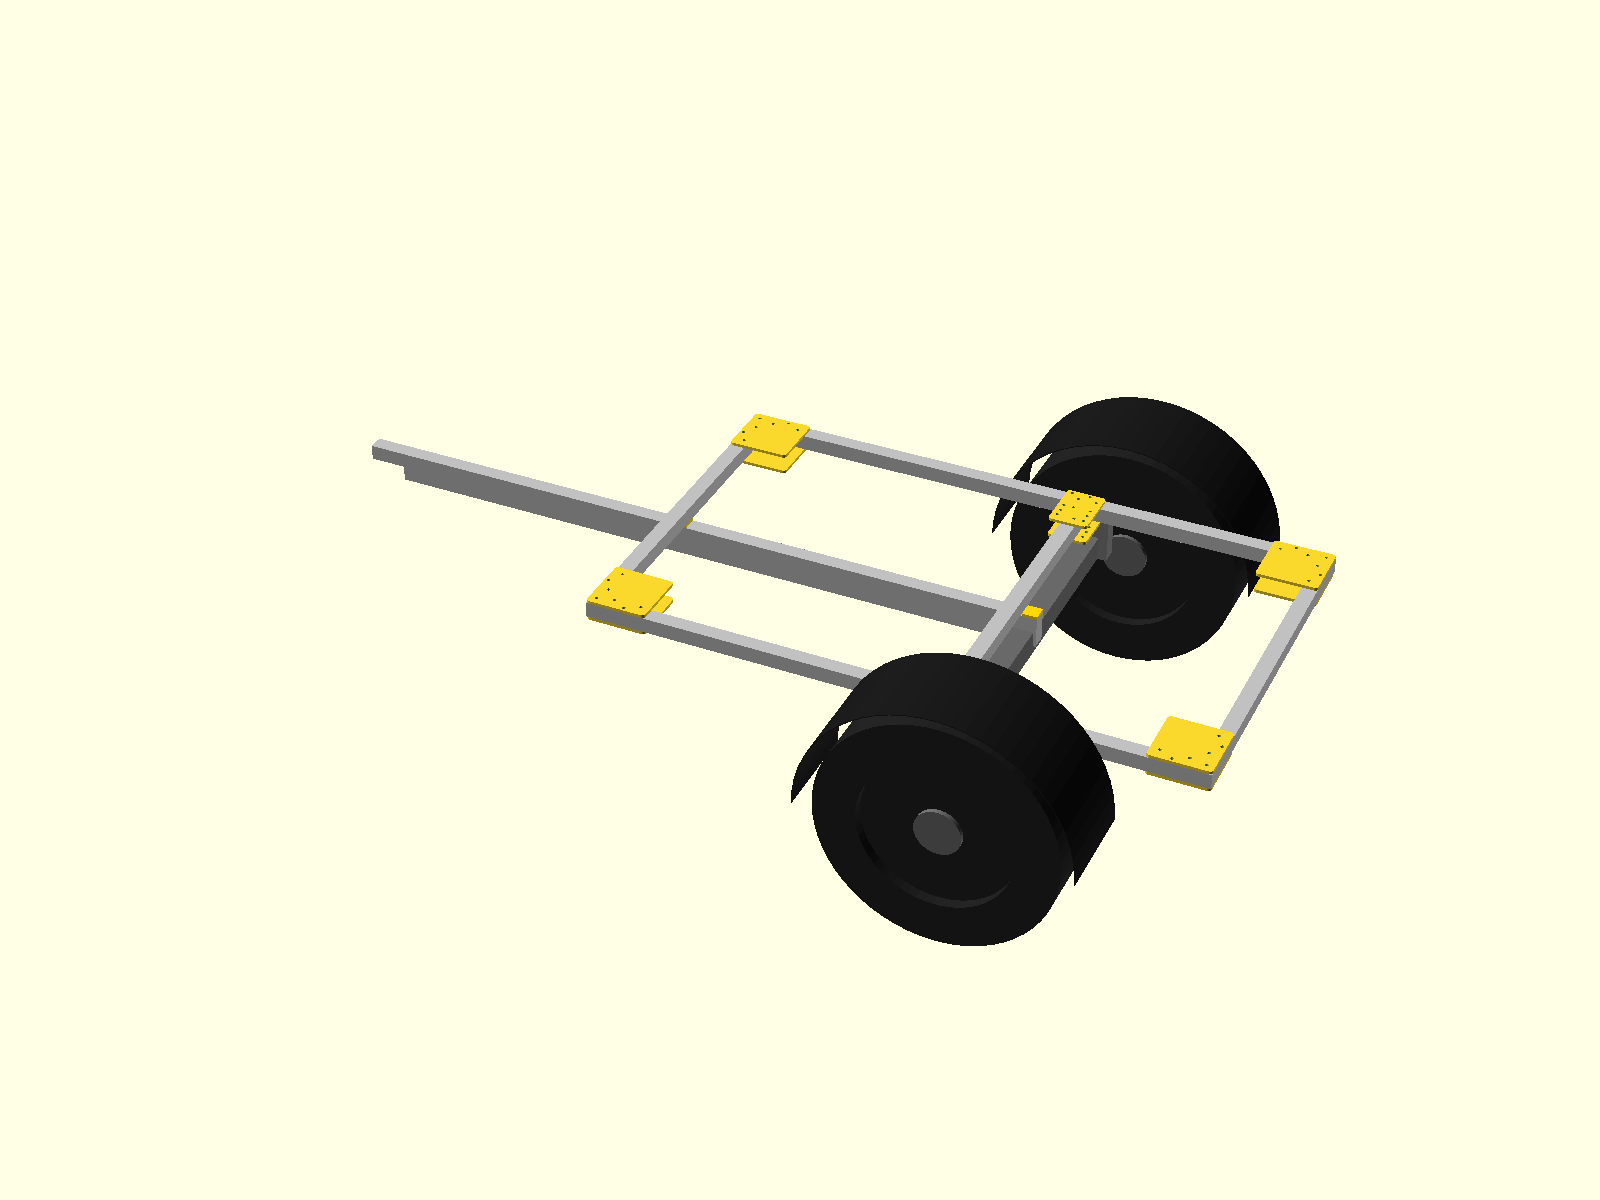
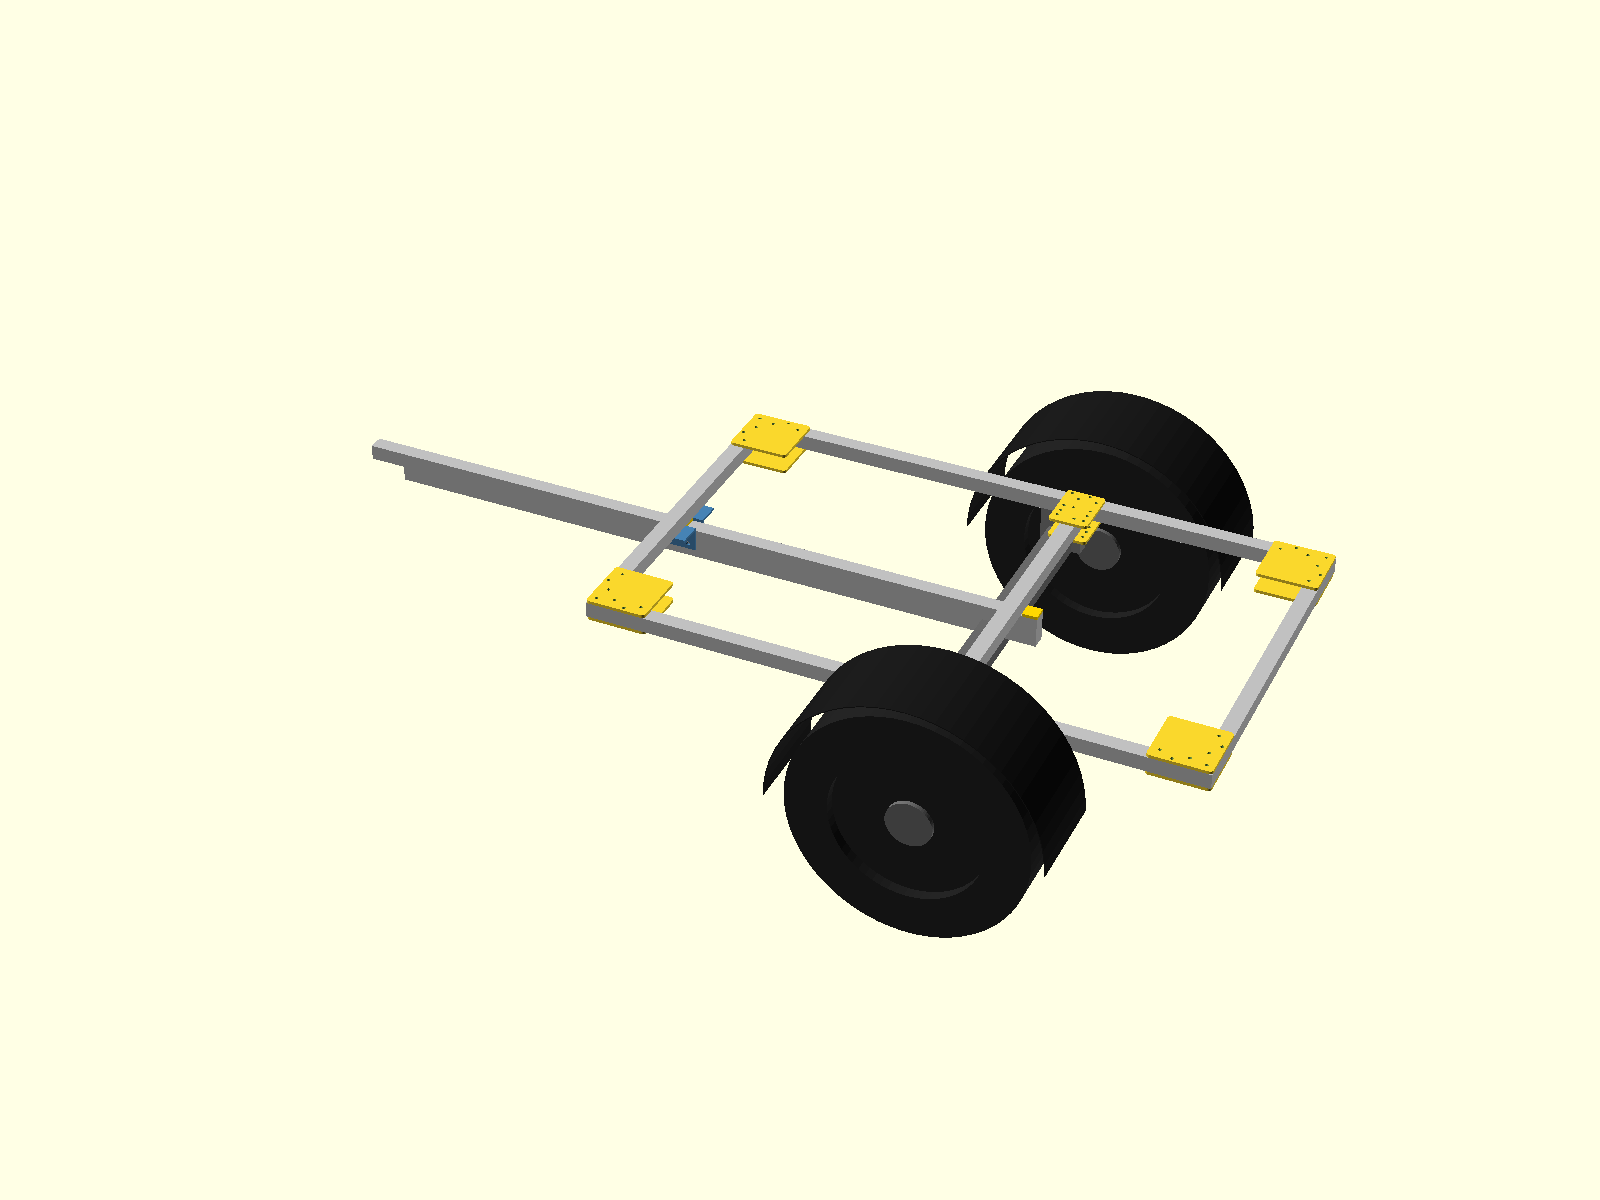
Angle joint in main assembly; fix axle/wheel alignment + tank collisions
- main_assembly: drawbar_angle_joint() module at the front crossbeam
  (DECIDED - no holes in the beam flanges there); axle crossbeam keeps
  M12 through-bolt + spacer (moment ~zero, positive location). Spare
  wheel mocked on the tailgate left half.
- Axle fix: torsion_axle() places the TUBE; hubs sit trail=90 mm back.
  Assembly now passes axle_x - trail so the WHEELS land on the axle
  crossbeam and on AXLE_X in the mass budget (they were 90 mm off).
- Water tank: was impaled by the central drawbar and overlapped the
  axle tube - moved ahead of the tube and offset left of the beam
  (20 mm gap); the offset counterbalances the right-side galley mass.
- Mass budget: angle brackets line, corrected tank position; tongue
  59.6 kg (9.5%) against the true wheel position.
- beam_check: VKR 100x50x5/x6 profiles for the wall-thickness option;
  SPECS/TODO/concepts updated; chassis + assembly renders regenerated.

diff --git a/scripts/calculate_mass.py b/scripts/calculate_mass.py
@@ -37,6 +37,7 @@ COMPONENTS = [
     ("Corner plates 8x 200x200x10 (1.08 kg ea)",        8.6, 1000),
     ("T-plates axle beam 4x (~1.5 kg ea)",              6.0, AXLE_X),
     ("Drawbar wedge/spacer plates",                     3.0,  100),
+    ("Drawbar angle brackets 2x L80x80x8 x 120 mm",     2.3,   25),
 
     # --- Running gear ---
     ("Torsion axle, braked, 6x139.7 + dampers",        75.0, AXLE_X),
@@ -52,9 +53,10 @@ COMPONENTS = [
     ("Rear door, hinges, locks, seals",                 8.0, 1950),
     ("Roof racks + roof tent",                         70.0, 1000),
 
-    # --- Water (tank full) ---
-    ("Water tank 40 L FULL + tank",                    45.0, 1100),
-    ("Skid plate 3 mm alu tread (~0.8 m2)",             6.5, 1100),
+    # --- Water (tank full; offset left of the drawbar, ahead of the
+    #     axle tube — see main_assembly.scad) ---
+    ("Water tank 40 L FULL + tank",                    45.0,  780),
+    ("Skid plate 3 mm alu tread (~0.8 m2)",             6.5,  780),
     ("Pump, hoses, filler, drain valve",                4.0, 1200),
 
     # --- Electrical (right side, bay ahead of the fridge drawer) ---

diff --git a/scripts/beam_check.py b/scripts/beam_check.py
@@ -82,7 +82,9 @@ PROFILES = {
     "VKR 50x50x3":   RHS("VKR 50x50x3", 50, 50, 3),
     "VKR 60x40x3":   RHS("VKR 60x40x3", 40, 60, 3),
     "VKR 100x50x4":  RHS("VKR 100x50x4", 50, 100, 4),   # drawbar, standing on edge
-    "VKR 120x60x4":  RHS("VKR 120x60x4", 60, 120, 4),   # upsizing option
+    "VKR 100x50x5":  RHS("VKR 100x50x5", 50, 100, 5),   # thicker wall, same outer
+    "VKR 100x50x6":  RHS("VKR 100x50x6", 50, 100, 6),   # thicker still
+    "VKR 120x60x4":  RHS("VKR 120x60x4", 60, 120, 4),   # deeper profile option
 }
 
 

diff --git a/SPECS.md b/SPECS.md
@@ -8,9 +8,9 @@
 ## 1. Chassis & Mechanics
 - **Frame Structure:** Square steel (VKR 50x50x3 or 60x40x3 mm), frame 2000 x **1200 mm**. The frame was narrowed from 1400 mm because matching the Ranger's 1560 mm track is otherwise geometrically impossible: with 265 mm tires, tire-to-body clearance is (1560-265)/2 - 600 = **47.5 mm** at 1200 mm width, but negative at 1400 mm. No full welding to prevent fatigue cracks; the frame is bolted together with through-bolts (M10/M12 in 8.8/10.9 grade).
 - **Bolted Joints (critical):** Every through-bolt runs through an **internal steel crush sleeve** (precision tube, e.g., 16x2.5 mm for M10) so the bolt can be torqued to full preload without collapsing the 3 mm RHS walls. Lock nuts and hardened washers throughout. **Re-torque all structural bolts after the first ~500 km, then annually.**
-- **Drawbar:** Single central beam in **VKR 100x50x4 (standing on edge)**, chosen for clean looks over a V/A-frame — and sized for it: 100 kg tongue x 3g off-road dynamic factor x 1.09 m lever = 3.2 kNm; W = 28.8 cm3 gives ~111 MPa vs. S355 yield = safety factor ~3.2. (A 50x50x3 beam would see ~390 MPa — above yield — which is why the profile is upsized.) Lateral loads are handled by lapping the beam under the frame all the way back to the **axle crossbeam**, so side moments resolve as a force couple over a 1.2 m base; through-bolted with M12 + crush sleeves at both crossbeams, with 10 mm milled spacer plates in the gaps. All of this math is executable in `scripts/beam_check.py` (re-run after any geometry/mass change; CalculiX FEA setup in `fea/`, full pipeline via `scripts/run_fea.sh`). Note from the calculator: a *simultaneous* worst-case combination (2g vertical + 0.3g lateral, linearly superposed) gives SF ≈ 1.8 — acceptable given the stacked conservatisms, but VKR 120x60x4 (+2 kg) restores SF ≈ 2.7 if more margin is wanted.
+- **Drawbar:** Single central beam in **VKR 100x50x4 (standing on edge)**, chosen for clean looks over a V/A-frame — and sized for it: 100 kg tongue x 3g off-road dynamic factor x 1.09 m lever = 3.2 kNm; W = 28.8 cm3 gives ~111 MPa vs. S355 yield = safety factor ~3.2. (A 50x50x3 beam would see ~390 MPa — above yield — which is why the profile is upsized.) Lateral loads are handled by lapping the beam under the frame all the way back to the **axle crossbeam**, so side moments resolve as a force couple over a 1.2 m base. Attachment (DECIDED): at the **front crossbeam** the beam is CLAMPED by the angle-bracket pair (no holes in the flanges — see the joint bullet below); at the **axle crossbeam** it is through-bolted with M12 + crush sleeve through a 10 mm spacer plate (moment ~zero there; gives positive longitudinal location). All of this math is executable in `scripts/beam_check.py` (re-run after any geometry/mass change; CalculiX FEA setup in `fea/`, full pipeline via `scripts/run_fea.sh`). Note from the calculator: a *simultaneous* worst-case combination (2g vertical + 0.3g lateral, linearly superposed) gives SF ≈ 1.8 — acceptable given the stacked conservatisms, but VKR 120x60x4 (+2 kg) restores SF ≈ 2.7 if more margin is wanted.
 - **Drawbar joint (the actual weak point):** The governing detail is not the beam but the **13 mm bolt hole through the tension flange at the front crossbeam** — net section −17%, kt ≈ 2.5, right at peak moment; fatigue margin only ~1.3× vs ~3-4× everywhere else (`check_joint_hole` in `beam_check.py`). Fix, keeping the 100x50x4 profile: clamp the beam at the front crossbeam instead of piercing its flanges — vertical bolts pass *beside* the beam, horizontal M12 bolts go through the beam webs at the **neutral axis** where bending stress is ~zero, and nothing references the beam's end cuts (maximally tolerance-forgiving). Three interchangeable implementations, same structural concept:
-  1. **Angle-bracket pair (budget, favored):** 2x hot-rolled **L80x80x8** S355, 120 mm long, straight cuts only, galvanized with the frame (`cad/drawbar_angle_joint.scad`). Leg-bending SF ≈ 3.4 with the pair coupled by the through-bolts (`check_angle_joint` in `beam_check.py`); 6 mm legs drop to SF 1.9 — use 8 mm. The 10 mm spacer plate stays.
+  1. **Angle-bracket pair (DECIDED — in the main assembly):** 2x hot-rolled **L80x80x8** S355, 120 mm long, straight cuts only, galvanized with the frame (`cad/drawbar_angle_joint.scad`). Leg-bending SF ≈ 3.4 with the pair coupled by the through-bolts (`check_angle_joint` in `beam_check.py`); 6 mm legs drop to SF 1.9 — use 8 mm. The 10 mm spacer plate stays.
   2. **CNC-milled 6082-T6 cradle** (`cad/drawbar_cradle.scad`): one-piece channel + wings, integrated spacer web — the premium/CNC variant.
   3. **Square U-bolts** (fyrkantbygel M12 for 50 mm profile) + top plate: fully off-the-shelf trailer hardware; add a saddle strip so the U-bend doesn't dent the tube corners. The V-drawbar alternative is preserved in `cad/drawbar_wedge_plate.scad` + git history. The coupling itself must be a type-approved unit with a documented rating.
 - **Corner Reinforcements:** "Double sandwich" with heavy-duty, CNC-milled 8-10 mm aluminum plates (6082-T6) on the top and bottom of each 90-degree corner.

diff --git a/concepts/gas_water_routing.md b/concepts/gas_water_routing.md
@@ -7,7 +7,7 @@
 - **No Gas to the Drawers:** Propane terminates at the fixed external quick-connects — nothing flexible, and nothing routed alongside electrical cables. The rear fridge drawer holds a 12V compressor unit (works off-level, no flame, no flue — an absorption fridge would need to be level and vented per EN 1949, which is incompatible with a slide-out), and the stove connects outdoors to the front-right quick-connect. The energy chains to both drawers carry **electrical only**, which keeps the left/right gas-electric separation intact all the way.
 
 ## Water System (Centered)
-- **Center of Gravity:** The 40L tank weighs nearly 45 kg full. Placed exactly between the wheels (in front of/over the torsion axle) so as not to drastically affect the tongue weight during consumption.
+- **Center of Gravity:** The 40L tank weighs nearly 45 kg full. Placed just ahead of the torsion-axle tube so consumption doesn't drastically swing the tongue weight, and **offset LEFT of the central drawbar** — the beam runs under the frame centerline (y 575-625), so a centered tank is geometrically impossible. The left offset usefully counterbalances the right-side galley mass (battery box + fridge).
 - **Protection:** Suspended in a steel frame/straps under the trailer. Protected from below with a heavy-duty 3 mm aluminum tread plate (skid plate) with a 45-degree beveled leading edge. **Low-profile tank (160 mm deep) on purpose:** a 220 mm tank hung to ~336 mm ground clearance and was the trailer's lowest point; at 160 mm the skid sits at ~405 mm, roughly level with the axle tube, so wheels/axle meet obstacles first and the skid only takes glancing hits. (Alternative if this still feels exposed: move the tank inside the cabin above the floor — full protection and frost-friendlier, at the cost of cargo space and higher CG.)
 - **Pipe Routing:** A 12V galley pump is mounted indoors (frost-free/protected) on rubber mounts to absorb pump noise. Externally lockable filler cap in the Dibond wall.
 - **Drainage:** An absolute requirement is a low point with a drain valve that can be opened from the side of the trailer before freezing temperatures.

diff --git a/TODO.md b/TODO.md
@@ -5,7 +5,7 @@
 - [ ] Maintain the weight & tongue-load budget (`scripts/calculate_mass.py`) — decides braked vs. unbraked axle and axle position.
 - [ ] Research registration requirements (registreringsbesiktning): lighting, reflectors, fenders, coupling approval. Contact inspection body early.
 - [x] CAD model the base frame (VKR profiles) and define bolt patterns for the corners.
-- [x] Design the drawbar attachment plates. (Current design: single central VKR 100x50x4 beam with flat 10 mm spacer plates at both crossbeam laps; `cad/drawbar_wedge_plate.scad` kept for the V-drawbar alternative.)
+- [x] Design the drawbar attachment. (DECIDED: single central VKR 100x50x4 beam; front crossbeam = angle-bracket clamp 2x L80x80x8 with no holes in the beam flanges (`cad/drawbar_angle_joint.scad`), axle crossbeam = M12 through-bolt + 10 mm spacer. `cad/drawbar_wedge_plate.scad`/`drawbar_cradle.scad` kept as alternatives.)
 - [x] Add fenders, lighting positions, and jockey wheel to the CAD model (`cad/fender.scad`, `cad/road_equipment.scad`, `cad/wheel_axle.scad`).
 - [x] **Resolve the track width conflict:** RESOLVED by narrowing the frame to 1200 mm — the 1560 mm Ranger track now fits with 47.5 mm tire-to-body clearance (see `cad/wheel_axle.scad`). Verify against the real car in the "Measure the Ford Ranger" task above.
 - [ ] Prototype and physically test ONE bolted corner joint (crush sleeves, torque retention after vibration, Duralac interface) before committing to the full frame.
